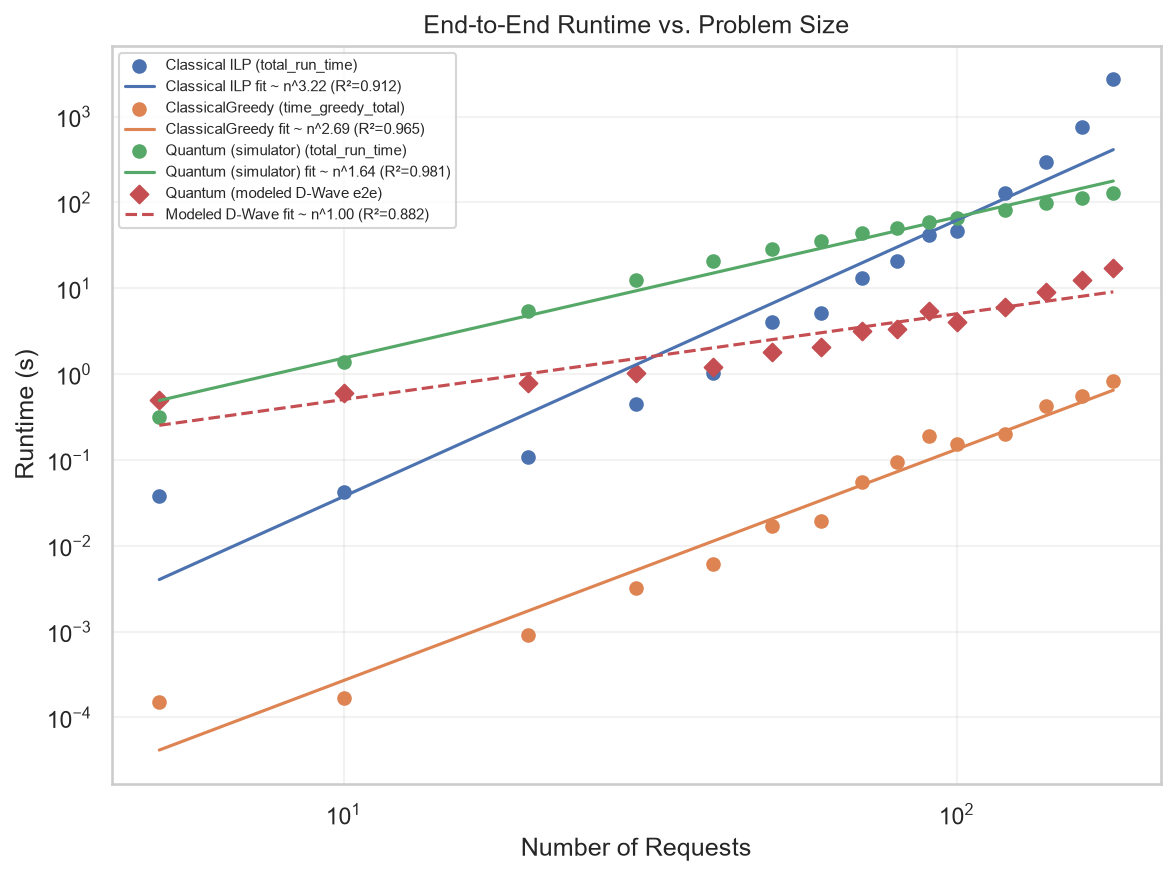
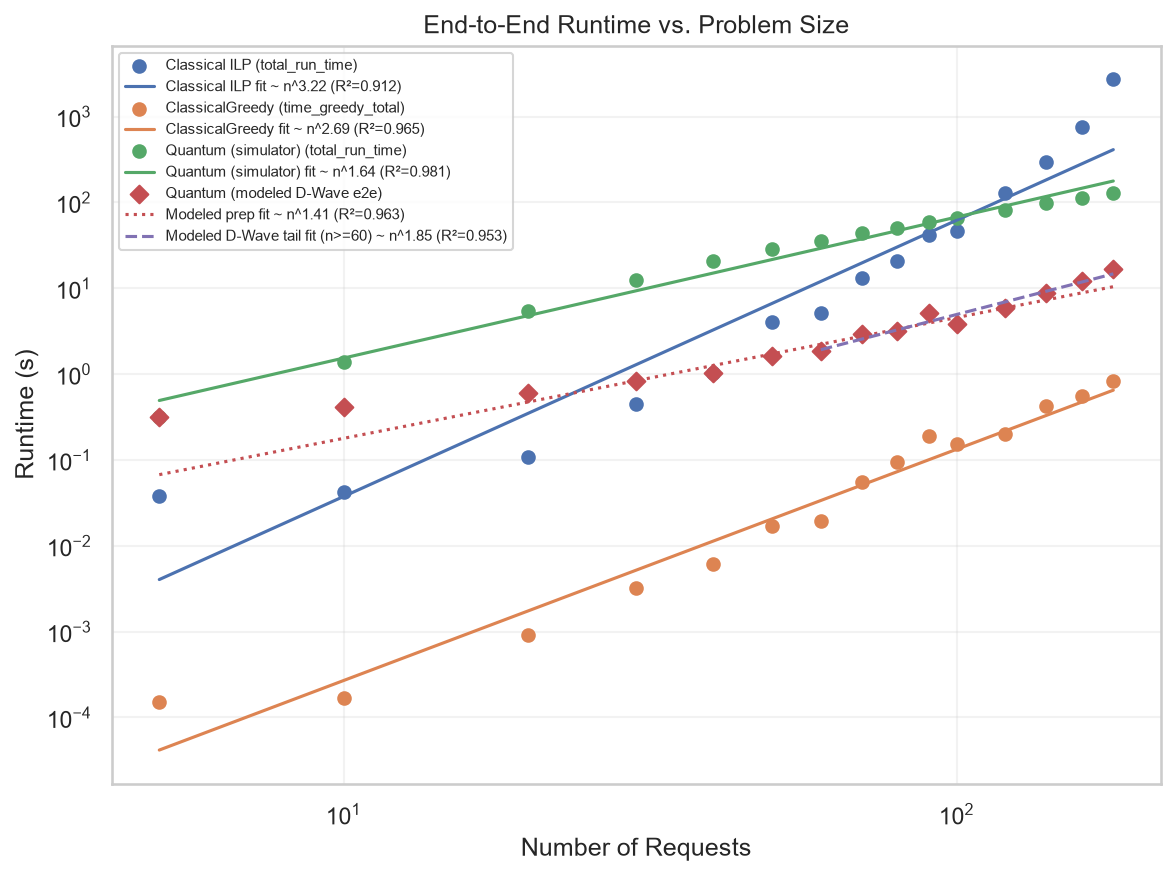
update compare_results

diff --git a/scripts/compare_results.py b/scripts/compare_results.py
@@ -24,14 +24,28 @@ RESULTS_DIR = PROJECT_ROOT / "results"
 FIGURES_DIR = RESULTS_DIR / "analysis_figures"
 TABLES_DIR = RESULTS_DIR / "analysis_tables"
 
-# Notebook-style D-Wave QPU timing assumptions (for modeled quantum time).
-NUM_READS = 2000
+# D-Wave QPU timing assumptions (for modeled quantum time).
+#
+# NUM_READS must match the num_reads actually used by the reported runs
+# (scripts/run_experiment.py --num-reads, default 1000). All 210 reported
+# quantum instances in results/experiment_results.csv were produced with
+# num_reads=1000; the previous value of 2000 here was stale and silently
+# doubled the modeled QPU constant relative to the experiments and to the
+# timing proxy reported in the paper.
+NUM_READS = 1000
 ANNEAL_US = 50
 READOUT_US = 120
 QPU_DELAY_US = 20
 PROGRAMMING_MS = 10
 OTHER_OVERHEAD_MS = 5
 QUEUE_OVERHEAD_S = 0.0
+
+# Lower cutoff for large-n tail fits of the modeled pipeline. The modeled series
+# is (size-dependent preprocessing) + (size-independent QPU constant); below this
+# cutoff the constant dominates and flattens the curve, so a full-range power-law
+# fit is not interpretable. Chosen so the QPU constant is a small share of the
+# modeled total across the tail.
+TAIL_CUTOFF = 60
 
 
 def parse_args():
@@ -310,32 +324,93 @@ def plot_end_to_end_runtime(d_class, d_greedy, d_quant_sim, d_quant_real, figure
     if not d_quant_sim.empty:
         q = d_quant_sim.copy()
         qpu = dwave_qpu_time_seconds()
+        # NOTE: qubo_build_time is BY CONSTRUCTION time_min_cost_prep + time_qubo_gen
+        # (see quantum_solver.quantum_mwis_run), so it must NOT be summed alongside
+        # its own components -- doing so double-counts QUBO construction, which is
+        # exactly the term the paper identifies as the dominant bottleneck. We sum
+        # the disjoint stage timings only.
         overhead = (
             safe_series(q, "rtv_graph_build_time")
             + safe_series(q, "time_min_cost_prep")
             + safe_series(q, "time_qubo_gen")
-            + safe_series(q, "qubo_build_time")
             + safe_series(q, "time_compress")
             + safe_series(q, "time_decode")
             + safe_series(q, "time_vehicle_assignment")
             + safe_series(q, "time_metrics_calc")
             + safe_series(q, "time_struct_stats")
         )
+        q["modeled_prep"] = overhead
         q["modeled_dwave_e2e"] = overhead + qpu
         avg = avg_by_requests(q, "modeled_dwave_e2e")
+        avg_prep = avg_by_requests(q, "modeled_prep")
         if not avg.empty:
             x = avg["num_requests"].to_numpy()
             y = avg["modeled_dwave_e2e"].to_numpy()
             plt.scatter(x, y, marker="D", label="Quantum (modeled D-Wave e2e)")
-            a, C, r2 = fit_powerlaw(x, y)
-            if np.isfinite(a):
-                xfit = np.logspace(np.log10(x.min()), np.log10(x.max()), 200)
+
+            # The modeled series is (classical preprocessing) + (a size-INDEPENDENT
+            # QPU constant). Fitting a single power law to constant + power law in
+            # log-log space is not meaningful: the constant flattens the curve at
+            # small n and is negligible at large n, so least squares averages a flat
+            # segment with a steep one and reports an exponent that describes
+            # neither. We therefore report:
+            #   (a) the preprocessing exponent, which is the size-dependent term and
+            #       the honest characterization of how the pipeline scales; and
+            #   (b) a large-n tail fit of the modeled series, which recovers the
+            #       asymptotic behavior once the constant stops dominating.
+            # The full-range fit is still emitted, but flagged as an artifact.
+            xp = avg_prep["num_requests"].to_numpy()
+            yp = avg_prep["modeled_prep"].to_numpy()
+            a_prep, C_prep, r2_prep = fit_powerlaw(xp, yp)
+            if np.isfinite(a_prep):
+                xfit = np.logspace(np.log10(xp.min()), np.log10(xp.max()), 200)
                 plt.plot(
                     xfit,
-                    C * (xfit**a),
-                    linestyle="--",
-                    label=f"Modeled D-Wave fit ~ n^{a:.2f} (R²={r2:.3f})",
+                    C_prep * (xfit**a_prep),
+                    linestyle=":",
+                    label=f"Modeled prep fit ~ n^{a_prep:.2f} (R²={r2_prep:.3f})",
                 )
+                fit_rows.append(
+                    {
+                        "method": "Quantum (modeled prep only)",
+                        "column": "modeled_prep",
+                        "exponent": a_prep,
+                        "C": C_prep,
+                        "R2": r2_prep,
+                        "fit_range": "full",
+                        "note": "size-dependent term; QPU constant excluded",
+                    }
+                )
+
+            # Large-n tail fit of the modeled series.
+            tail_mask = x >= TAIL_CUTOFF
+            if tail_mask.sum() >= 3:
+                a_t, C_t, r2_t = fit_powerlaw(x[tail_mask], y[tail_mask])
+                if np.isfinite(a_t):
+                    xfit = np.logspace(
+                        np.log10(x[tail_mask].min()), np.log10(x[tail_mask].max()), 200
+                    )
+                    plt.plot(
+                        xfit,
+                        C_t * (xfit**a_t),
+                        linestyle="--",
+                        label=f"Modeled D-Wave tail fit (n>={TAIL_CUTOFF}) ~ n^{a_t:.2f} (R²={r2_t:.3f})",
+                    )
+                    fit_rows.append(
+                        {
+                            "method": "Quantum (modeled D-Wave e2e)",
+                            "column": "modeled_dwave_e2e",
+                            "exponent": a_t,
+                            "C": C_t,
+                            "R2": r2_t,
+                            "fit_range": f"tail n>={TAIL_CUTOFF}",
+                            "note": "asymptotic; QPU constant negligible here",
+                        }
+                    )
+
+            # Full-range fit retained for transparency, explicitly flagged.
+            a, C, r2 = fit_powerlaw(x, y)
+            if np.isfinite(a):
                 fit_rows.append(
                     {
                         "method": "Quantum (modeled D-Wave e2e)",
@@ -343,6 +418,11 @@ def plot_end_to_end_runtime(d_class, d_greedy, d_quant_sim, d_quant_real, figure
                         "exponent": a,
                         "C": C,
                         "R2": r2,
+                        "fit_range": "full",
+                        "note": (
+                            "ARTIFACT: single power law fit to constant + power law; "
+                            "do not report -- use prep exponent or tail fit"
+                        ),
                     }
                 )
 
@@ -446,11 +526,13 @@ def plot_quantum_runtime_breakdown(d_quant_sim, figures_dir, tables_dir):
 
     q = d_quant_sim.copy()
     q["dwave_qpu_time"] = dwave_qpu_time_seconds()
+    # qubo_build_time == time_min_cost_prep + time_qubo_gen by construction
+    # (quantum_solver.quantum_mwis_run), so summing it alongside its components
+    # double-counts QUBO construction. Sum disjoint stages only.
     q["prep_build_time"] = (
         safe_series(q, "rtv_graph_build_time")
         + safe_series(q, "time_min_cost_prep")
         + safe_series(q, "time_qubo_gen")
-        + safe_series(q, "qubo_build_time")
         + safe_series(q, "time_compress")
     )
     q["output_time"] = (
